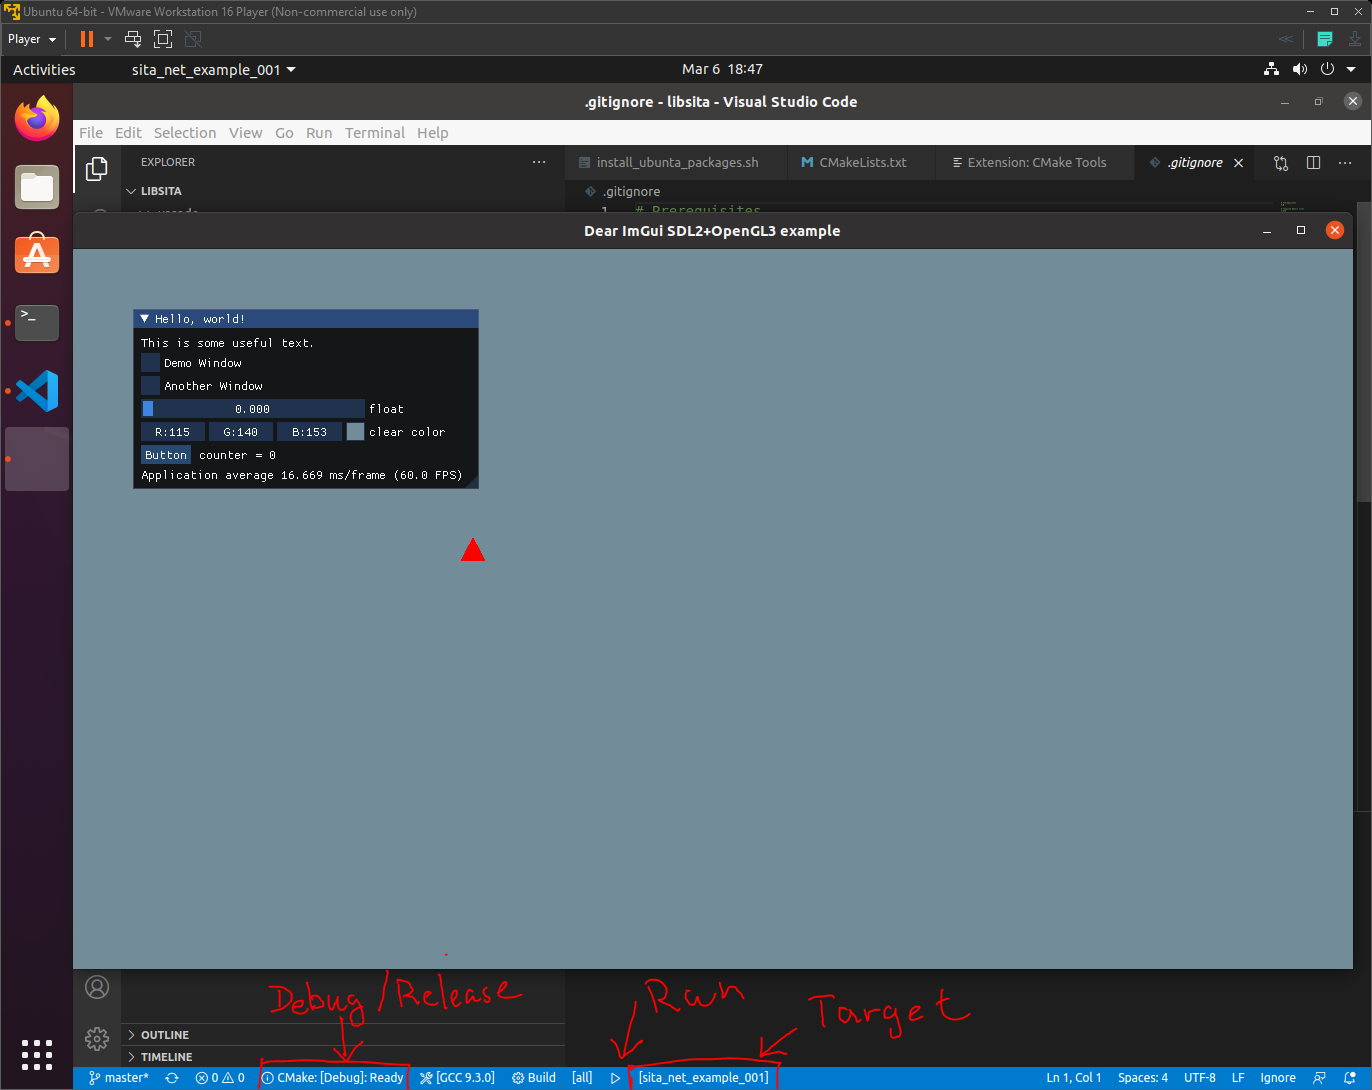
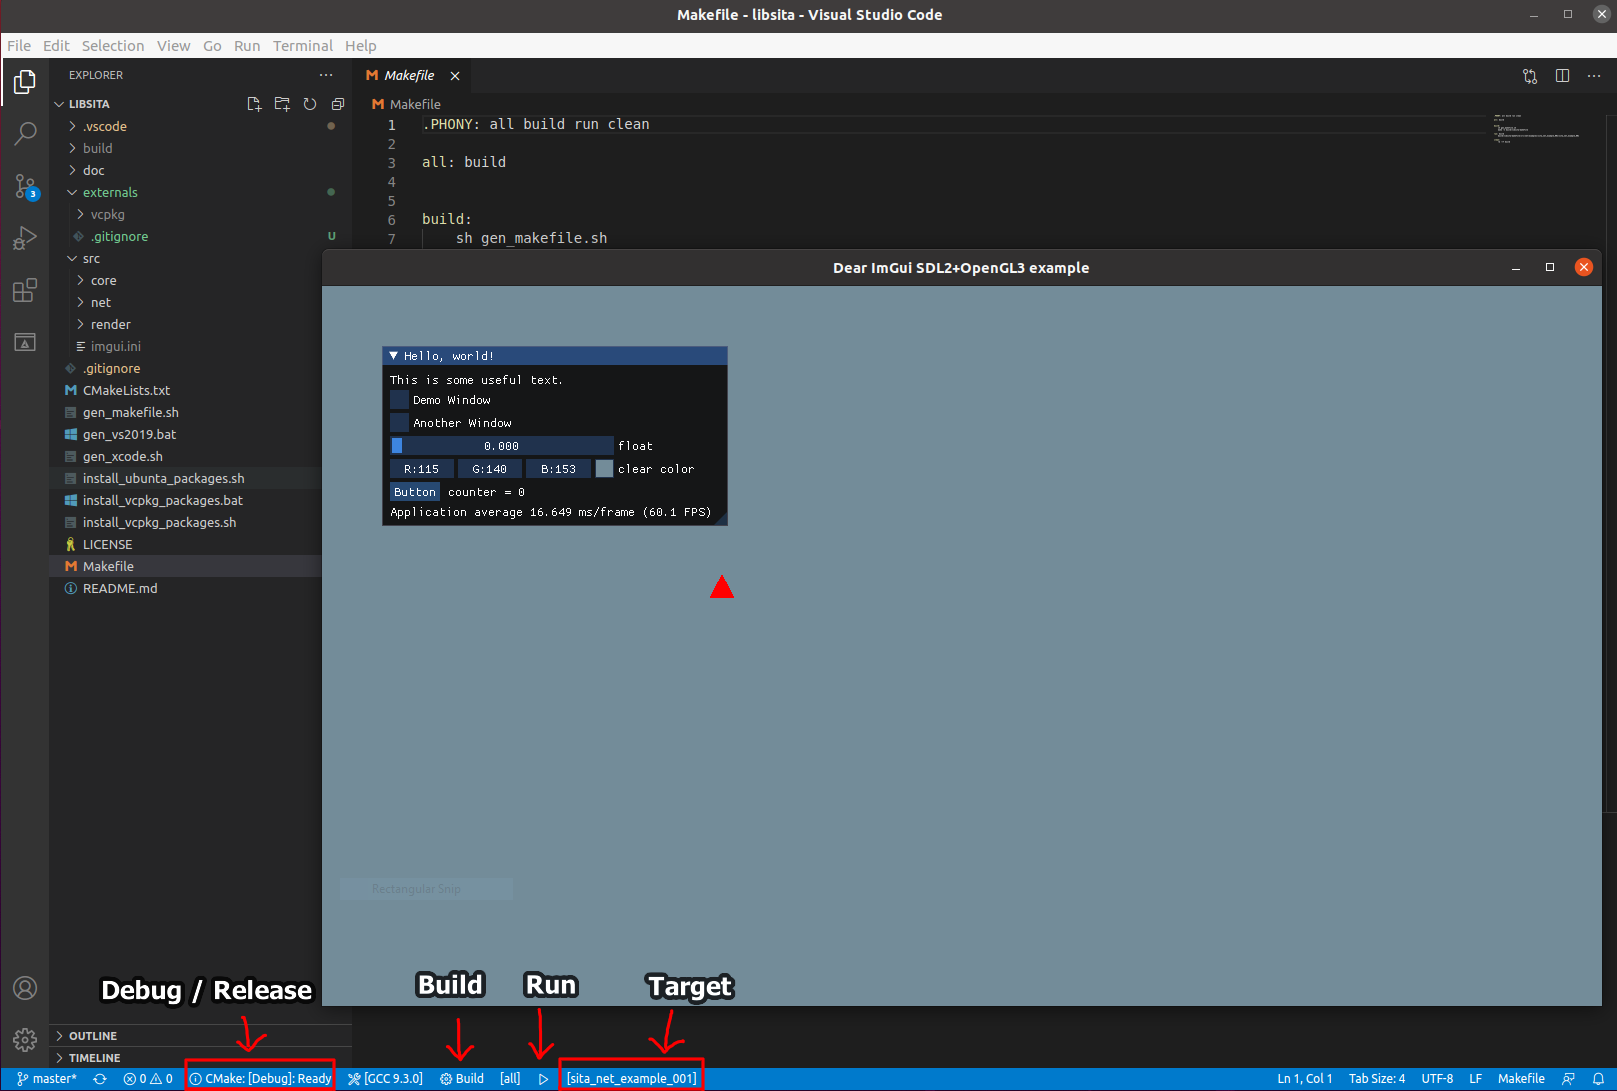
Project Setup - doc

diff --git a/README.md b/README.md
@@ -21,4 +21,8 @@ sh install_vcpkg_packages.sh
 make
 make run
 ```
-- Or Visual Studio Code + CMake Tool in project folder
+
+## Visual Studio Code + Cmake Tool
+- install extension `CMake Tools` and `CMake`
+- Build and Run from bottom status bar
+![Linux + vscode + cmake tool](doc/screenshot/2021-03-17_Project_Setup-Linux.png)
